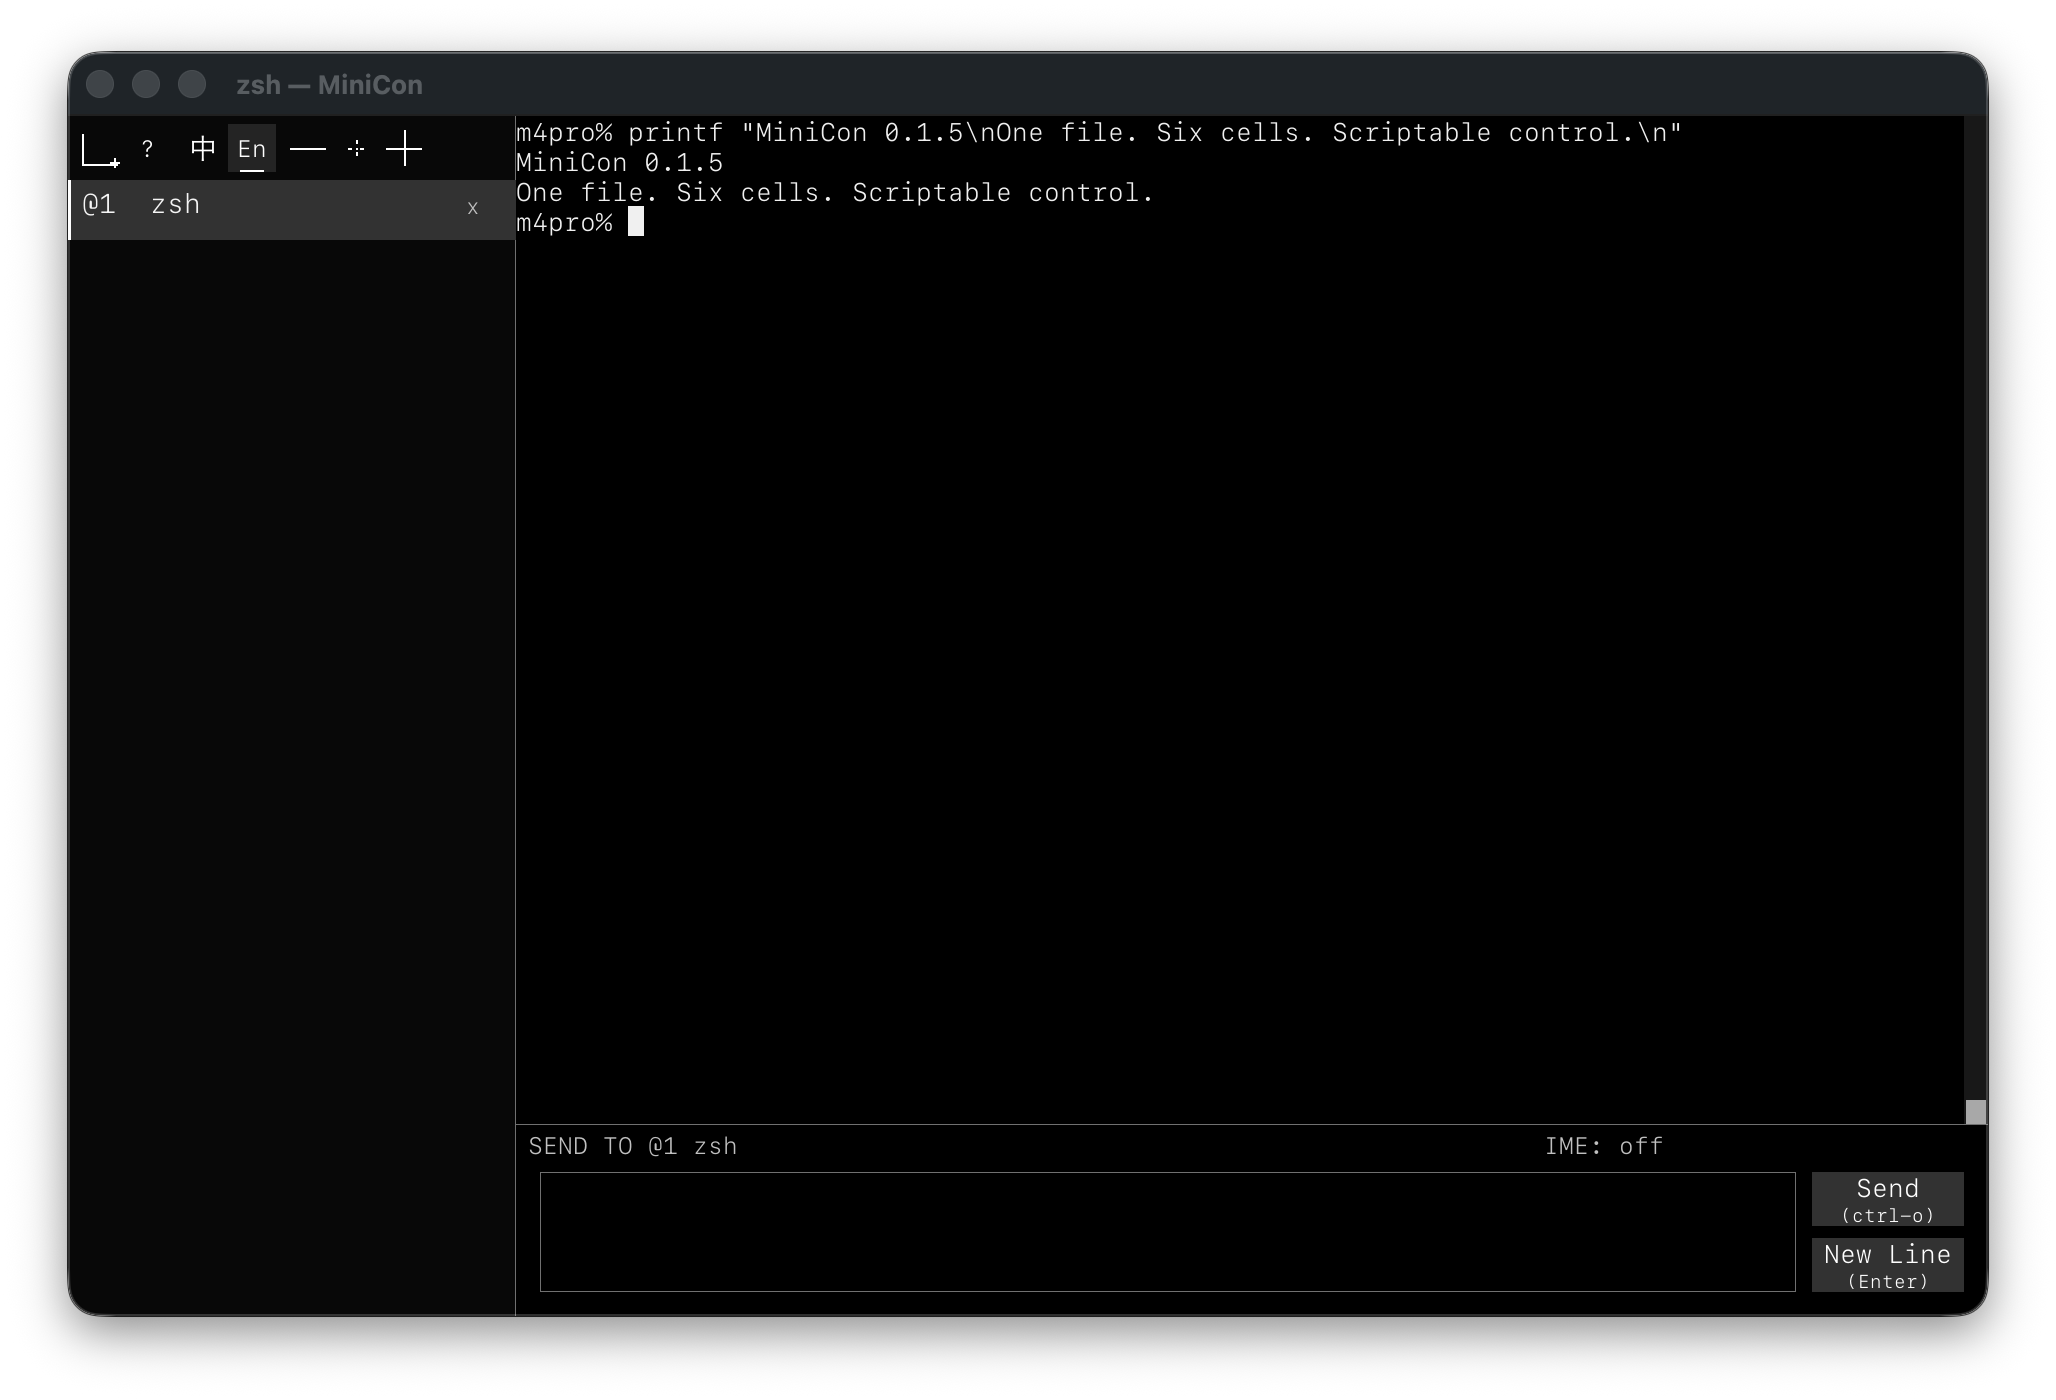
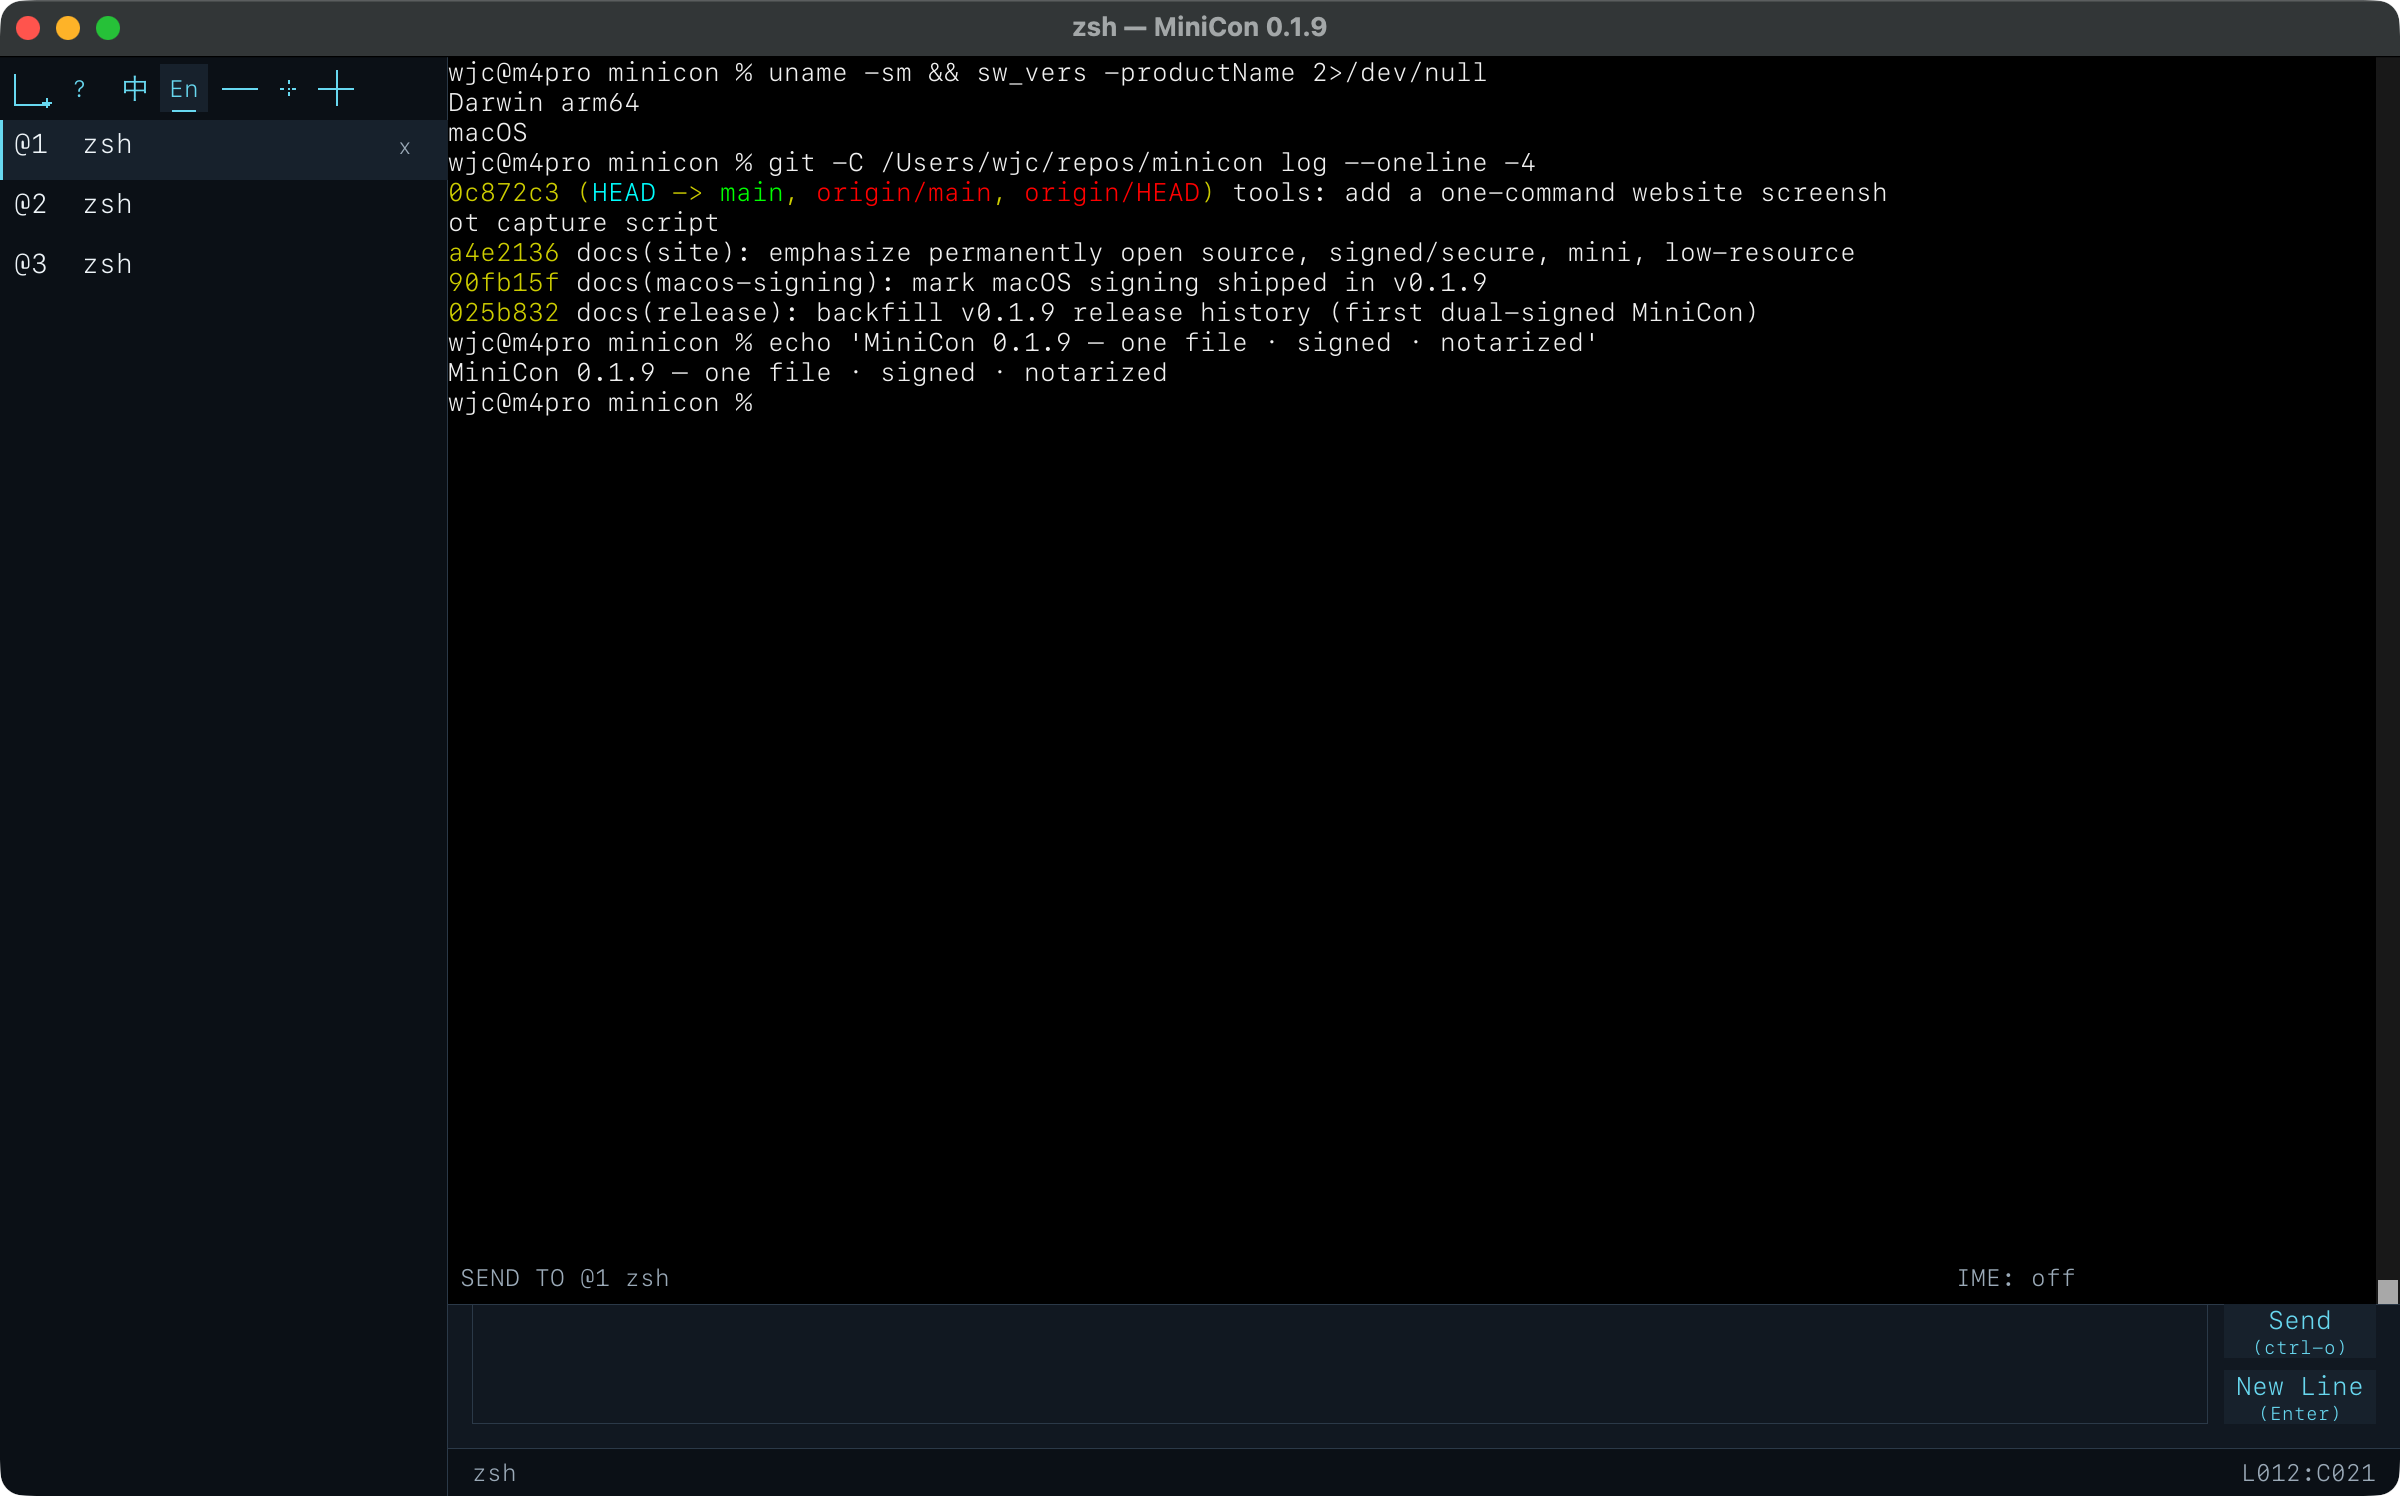
docs(site): refresh screenshot to the 0.1.9 UI (status bar, theme, tab tree)
Replace the screenshot with a fresh capture of the shipped 0.1.9 build: the Docs
Ink theme, three tabs, colorized git output, and the new bottom status bar with
its fixed-width L:C cursor readout. Fix the img aspect (940x586) and update the
alt/caption in all three locales to match what the shot shows. Captured with
scripts/capture-website-screenshot.sh; the toolbar redesign (Turn 4) is still
deferred, so the header tools are unchanged.

Claude-Session: https://claude.ai/code/session_016q6a4tn7Pc3eWmg8GBQApU

Changed region(s): [[0.0, 0.0, 1.0, 1.0], [0.7471, 0.7986, 0.8093, 0.8293], [0.4358, 0.2457, 0.4669, 0.2764]]

diff --git a/docs/index.html b/docs/index.html
@@ -313,10 +313,10 @@
         <h2 data-i18n="shotTitle">This is the whole application.</h2>
         <p class="section-lead" data-i18n="shotLead">A tab column, a terminal, an input line. That's it.</p>
         <figure class="shot">
-          <img src="assets/minicon-window.png" width="940" height="560" loading="lazy"
+          <img src="assets/minicon-window.png" width="940" height="586" loading="lazy"
                data-i18n-alt="shotAlt"
-               alt="The MiniCon window: a tab column on the left, a zsh session filling the terminal area, and Send and Newline controls beside the input area.">
-          <figcaption data-i18n="shotCaption">An unmodified screenshot. Half- and full-width characters land in exactly one and two cells — the detail most small terminals get wrong.</figcaption>
+               alt="The MiniCon window in the Docs Ink theme: three tabs on the left, a zsh session with colorized git output, a bottom status bar showing the cursor line and column, and Send and Newline controls by the input area.">
+          <figcaption data-i18n="shotCaption">An unmodified screenshot — tab tree, terminal, a separate input line, and the bottom status bar with a fixed-width cursor readout.</figcaption>
         </figure>
       </div>
     </section>
@@ -529,8 +529,8 @@ cargo build --release   <span class="c"># target/release/minicon[.exe]</span></p
           inv3Body: "Real PTY, real VT parsing, tabs, IME, mouse, scrollback — small is the size, not the feature list.",
           shotTitle: "This is the whole application.",
           shotLead: "A tab column, a terminal, an input line. That's it.",
-          shotAlt: "The MiniCon window: a tab column on the left, a zsh session filling the terminal area, and Send and Newline controls beside the input area.",
-          shotCaption: "An unmodified screenshot. Half- and full-width characters land in exactly one and two cells — the detail most small terminals get wrong.",
+          shotAlt: "The MiniCon window in the Docs Ink theme: three tabs on the left, a zsh session with colorized git output, a bottom status bar showing the cursor line and column, and Send and Newline controls by the input area.",
+          shotCaption: "An unmodified screenshot — tab tree, terminal, a separate input line, and the bottom status bar with a fixed-width cursor readout.",
           oldTitle: "It runs where modern terminals cannot.",
           oldLead: "Windows Terminal needs build 17763, and so does ConPTY. Your Server 2016 box has neither. MiniCon doesn't care — it finds the pseudoconsole at run time, or hosts the shell itself.",
           old1Index: "01 / NO DEAD END",
@@ -636,8 +636,8 @@ cargo build --release   <span class="c"># target/release/minicon[.exe]</span></p
           inv3Body: "真 PTY、真 VT 解析、标签页、输入法、鼠标、回滚——小的是体积，不是功能。",
           shotTitle: "这就是整个应用。",
           shotLead: "一列标签页、一个终端、一行输入。就这些。",
-          shotAlt: "MiniCon 窗口：左侧标签栏，中间是填满终端区的 zsh 会话，底部输入区旁有 Send 和 Newline 按钮。",
-          shotCaption: "未修图的真实截图。半角/全角各占一格/两格——这正是多数小终端做错的地方。",
+          shotAlt: "Docs Ink 主题下的 MiniCon 窗口：左侧三个标签，终端里是带彩色 git 输出的 zsh 会话，底部状态栏显示光标行列，输入区旁有 Send 和 New Line 按钮。",
+          shotCaption: "未修图的真实截图——标签树、终端、独立输入行，以及底部带定宽光标读数的状态栏。",
           oldTitle: "现代终端跑不动的地方，它跑得动。",
           oldLead: "Windows Terminal 要 build 17763，ConPTY 也要。你的 Server 2016 两样都没有。MiniCon 不在乎——运行时找到伪控制台就用，找不到就自己托管 shell。",
           old1Index: "01 / 没有死路",
@@ -743,8 +743,8 @@ cargo build --release   <span class="c"># target/release/minicon[.exe]</span></p
           inv3Body: "真 PTY、真 VT 解析、分頁樹、輸入法、滑鼠、回捲，還有一套腳本可驅動的控制介面。",
           shotTitle: "這就是應用程式的全部。",
           shotLead: "一欄分頁、一個終端機、一行輸入。沒有面板要排、沒有工作區要設定、沒有帳號要註冊。",
-          shotAlt: "MiniCon 視窗：左側分頁欄、中間填滿終端區的 zsh 工作階段、底部輸入區旁有 Send 與 Newline 按鈕。",
-          shotCaption: "未經修圖的實際截圖。標題列帶語言切換；最後一行是即時的半形/全形對齊檢查——這正是多數小型終端機做錯的地方。",
+          shotAlt: "Docs Ink 主題下的 MiniCon 視窗：左側三個分頁，終端機裡是帶彩色 git 輸出的 zsh 工作階段，底部狀態列顯示游標行列，輸入區旁有 Send 與 New Line 按鈕。",
+          shotCaption: "未經修圖的實際截圖——分頁樹、終端機、獨立輸入行，以及底部帶定寬游標讀數的狀態列。",
           oldTitle: "在現代終端機跑不動的地方，它跑得動。",
           oldLead: "Windows 到 build 17763（1809 版）才有虛擬主控台。建構在它之上的終端機就停在那裡——而微軟的 ConPTY 可轉散發套件並不能往下相容，因為它支援的版本和系統內建的一模一樣。MiniCon 在 Windows Server 2016 上照樣跑。",
           old1Index: "01 / 執行期解析，而非匯入",
